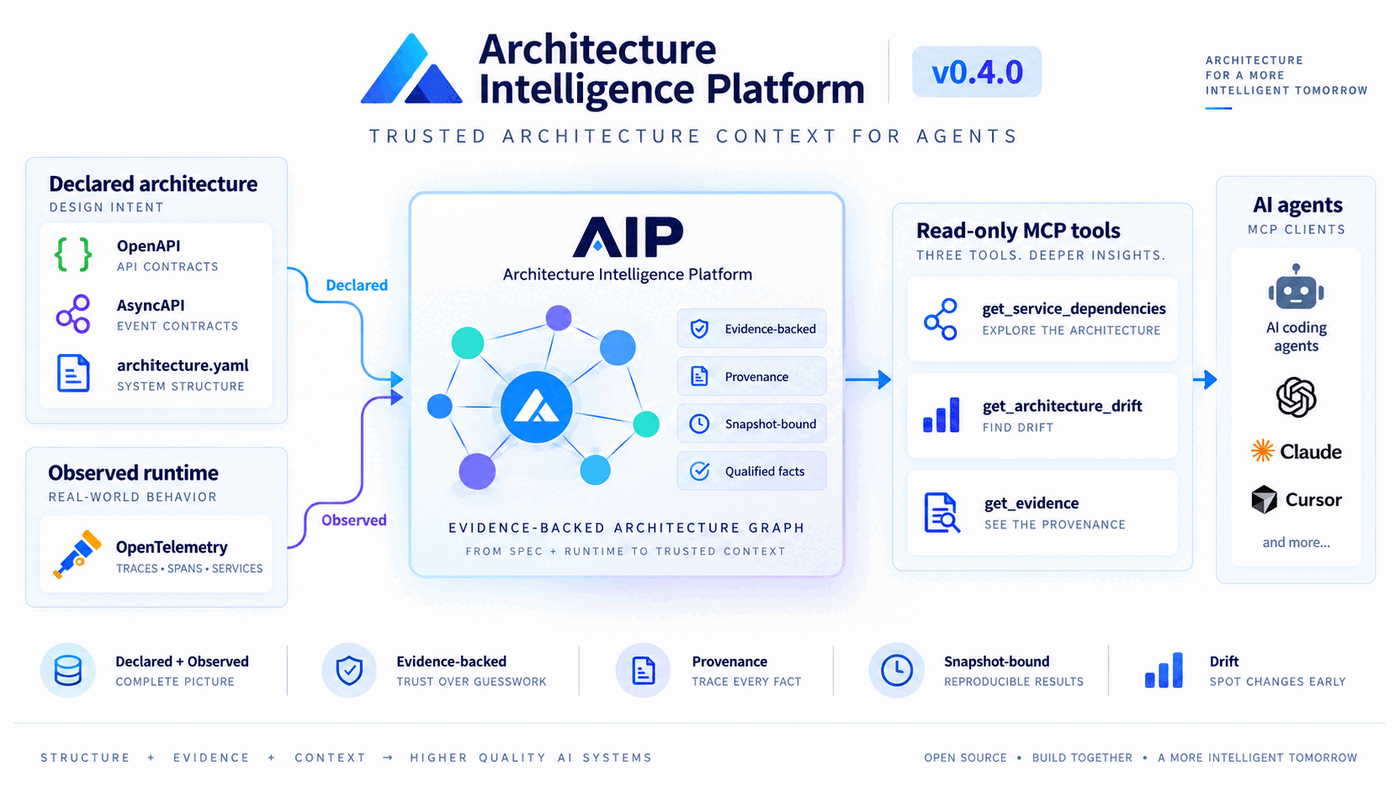
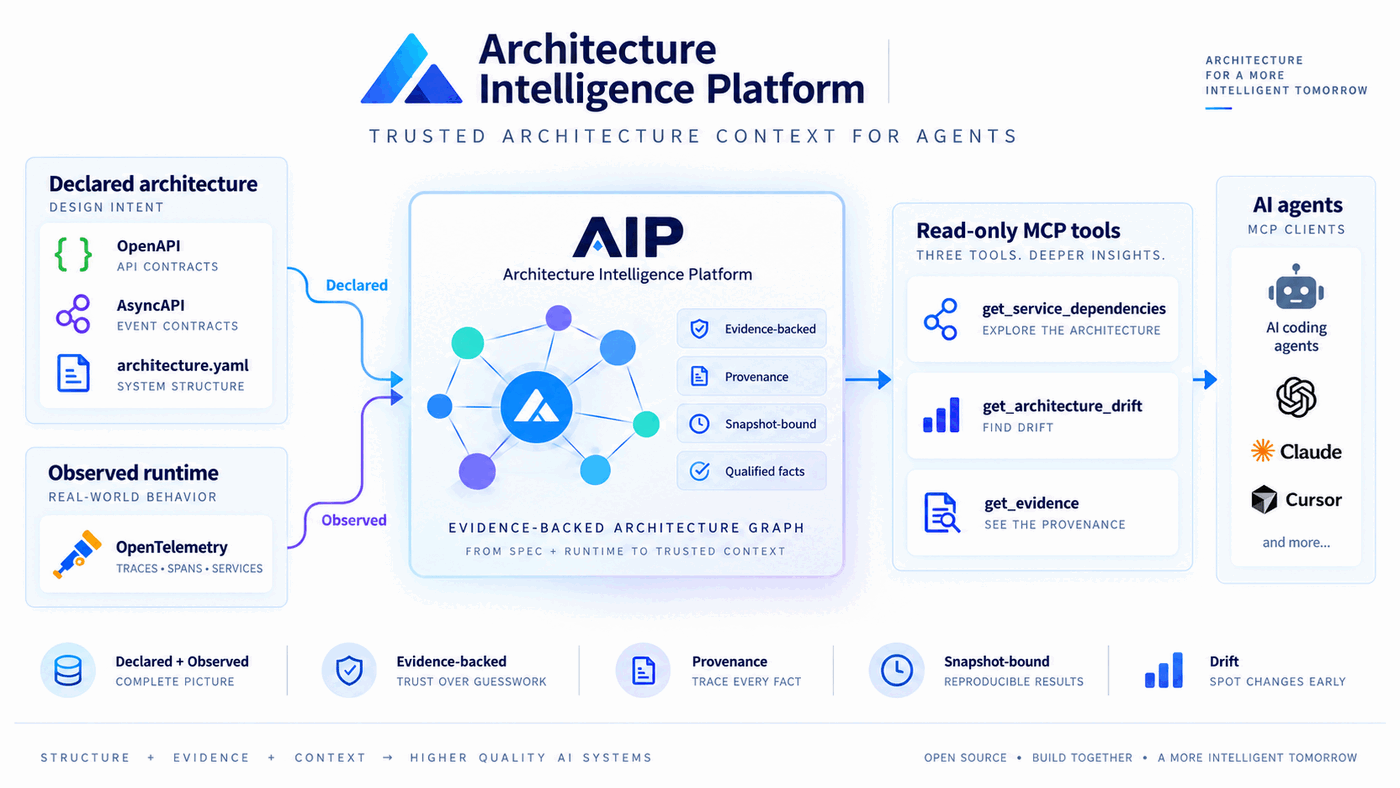
Remove v0.4.0 version badge from README hero image
The hero graphic hard-codes a version number that goes stale every
release. Paint over the "v0.4.0" pill with the image's background
color and drop the version from the alt text to match, so the image
doesn't need re-editing on every bump.

Claude-Session: https://claude.ai/code/session_01Ha1WiCqTwb7KpLLeeFdcC9

Changed region(s): [[0.645, 0.0609, 0.7679, 0.1218]]

diff --git a/README.md b/README.md
@@ -21,7 +21,7 @@ Every answer is read-only, snapshot-bound and traceable to evidence.
 ⭐ Star AIP if evidence-qualified architecture context for coding agents is a problem you want
 solved.
 
-![Architecture Intelligence Platform v0.4.0 — trusted architecture context for agents: declared OpenAPI, AsyncAPI and architecture.yaml plus observed OpenTelemetry feed an evidence-backed architecture graph, exposed to AI coding agents through three read-only MCP tools — get_service_dependencies, get_architecture_drift and get_evidence.](images/aip-hero-v0.4.png)
+![Architecture Intelligence Platform — trusted architecture context for agents: declared OpenAPI, AsyncAPI and architecture.yaml plus observed OpenTelemetry feed an evidence-backed architecture graph, exposed to AI coding agents through three read-only MCP tools — get_service_dependencies, get_architecture_drift and get_evidence.](images/aip-hero-v0.4.png)
 
 **[Video Walkthrough](https://www.linkedin.com/feed/update/urn:li:activity:7503338966553882625/) ·
 [Evaluation](#evaluation) · [Boundaries](#boundaries) · [Documentation](#documentation) ·
